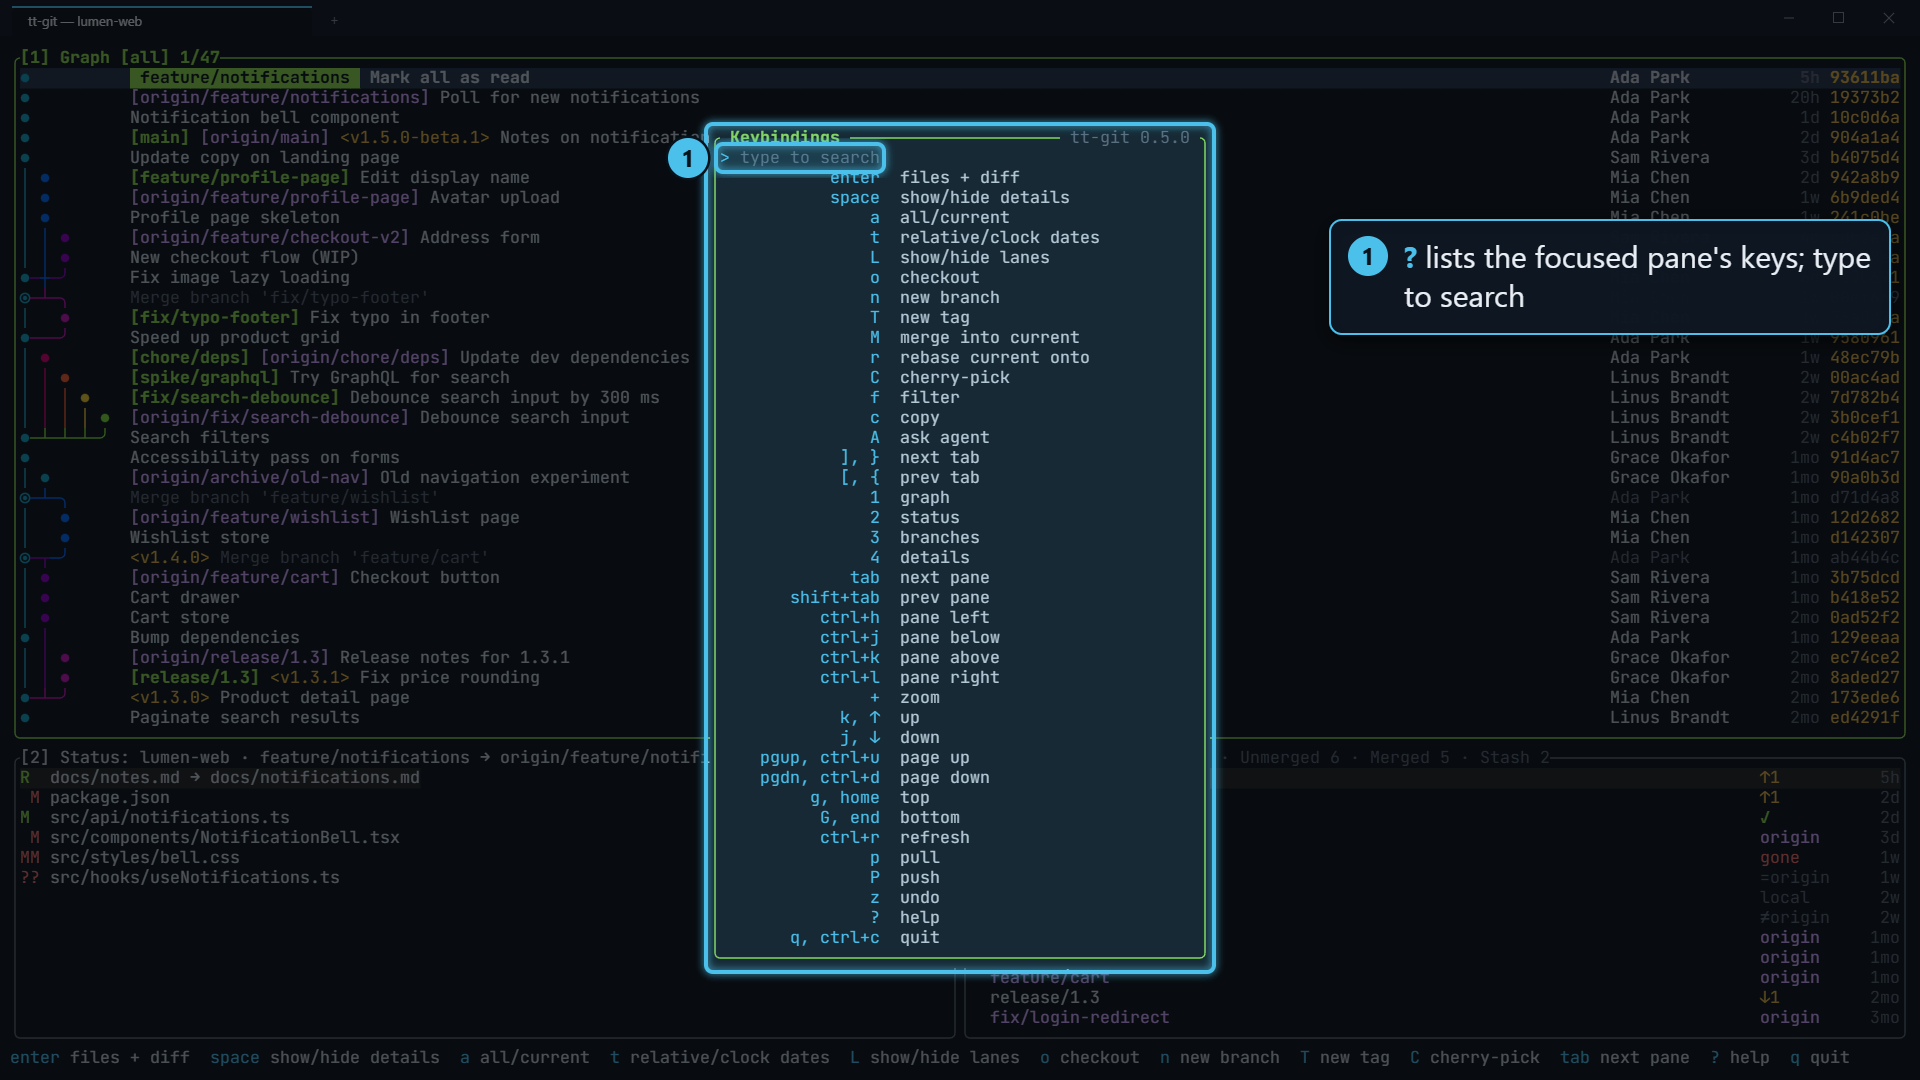
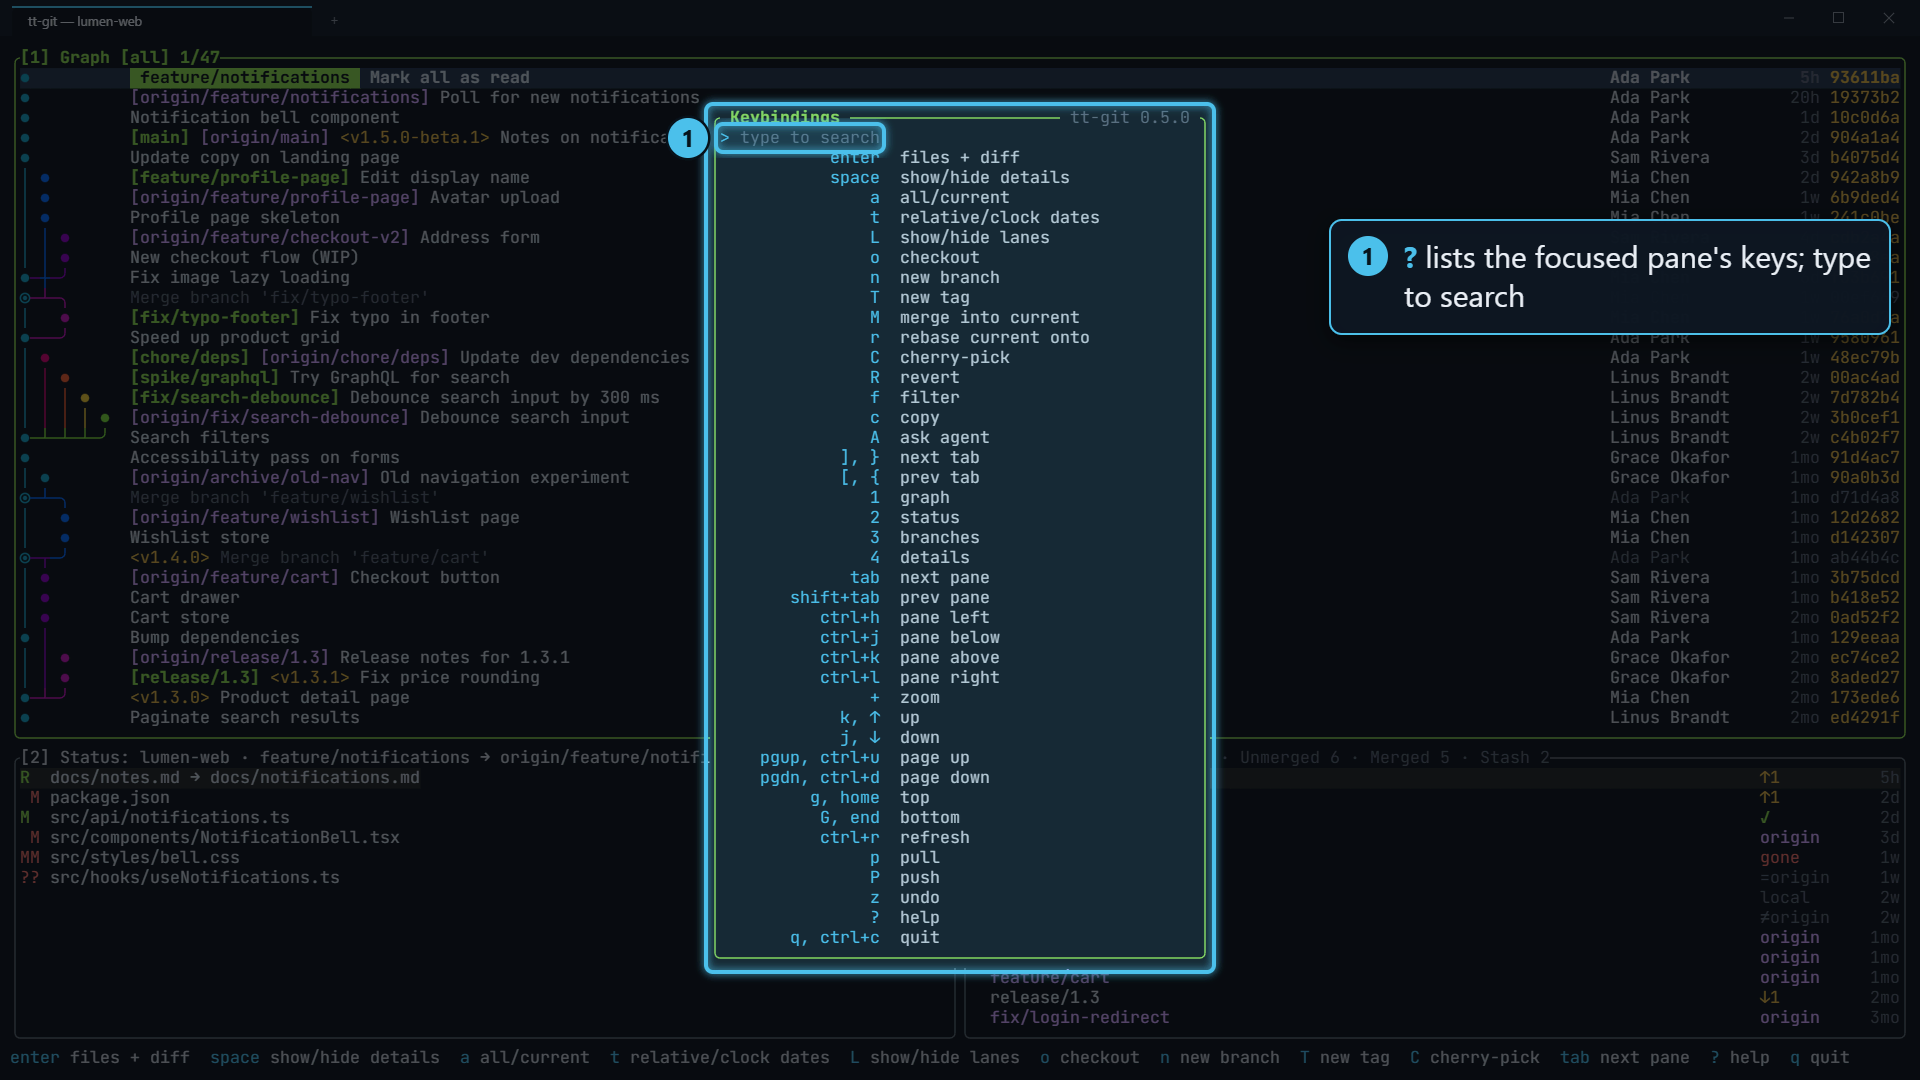
docs(graph): Describe reverting a commit with R

Changed region(s): [[0.3438, 0.0917, 0.6562, 0.3667]]

diff --git a/README.md b/README.md
@@ -115,7 +115,7 @@ command palette, which lists built-in commands and plugin actions.
 | | `o` | check out the selected commit: the local branch on it if there is one, else the commit with HEAD detached (with uncommitted changes, asks to stash them first) |
 | | `n` | new branch at the selected commit (`tab` in the dialog: create it in a worktree) |
 | | `T` | new tag at the selected commit (`tab` in the dialog: annotated, with a message) |
-| | `M` / `r` / `C` | merge into current / rebase current onto / cherry-pick |
+| | `M` / `r` / `C` / `R` | merge into current / rebase current onto / cherry-pick / revert |
 | | `c` | copy the commit hash |
 | | `A` | ask an AI agent about the commit, or start a ready-made action (explain branch, resolve conflicts…); opens in a herdr tab inside herdr, else in place of details |
 | | `]` `[` (or `}` `{`) | next / previous tab in the branches pane, without leaving the graph |
@@ -140,7 +140,7 @@ command palette, which lists built-in commands and plugin actions.
 | | `s` | stash: everything, only what's staged, only what isn't staged, everything but leave staged changes in place, or just the selected file (`tab` in the dialog picks; the message is optional) |
 | | `e` | open the file in your editor at its first change (a conflicted file: at its first conflict marker) |
 | | `b` | blame the file in the working tree: who last changed each line, when and in which commit |
-| | `C` / `X` | continue / abort a merge, rebase or cherry-pick |
+| | `C` / `X` | continue / abort a merge, rebase, cherry-pick or revert |
 | stash tab | `space` / `a` | pop / apply the selected stash (pop drops it once applied) |
 | | `d` | drop it (asks first) |
 | | `n` | new branch from it at the commit it was made on (`git stash branch`) |

diff --git a/docs/configuration.md b/docs/configuration.md
@@ -229,7 +229,7 @@ Write keys as `q`, `Q`, `shift+q`, `ctrl+c`, `alt+enter`, `shift+tab`,
 | `move_up`, `move_down`, `page_up`, `page_down`, `top`, `bottom` | `k`/`↑`, `j`/`↓`, `ctrl+u`, `ctrl+d`, `g`, `G` | global |
 | `refresh`, `push`, `pull` | `ctrl+r`, `P`, `p` | global |
 | `undo` | `z` | global |
-| `toggle_scope`, `toggle_dates`, `toggle_lanes`, `checkout`, `filter`, `new_branch`, `new_tag`, `merge`, `rebase`, `cherry_pick`, `agent` | `a`, `t`, `L`, `o`, `f`, `n`, `T`, `M`, `r`, `C`, `A` | graph |
+| `toggle_scope`, `toggle_dates`, `toggle_lanes`, `checkout`, `filter`, `new_branch`, `new_tag`, `merge`, `rebase`, `cherry_pick`, `revert`, `agent` | `a`, `t`, `L`, `o`, `f`, `n`, `T`, `M`, `r`, `C`, `R`, `A` | graph |
 | `checkout`, `new_branch`, `new_tag`, `delete_branch`, `rename_branch`, `fetch`, `filter`, `merge`, `rebase` | `enter`/`space`, `n`, `T`, `d`, `R`, `f`, `/`, `M`, `r` | branches |
 | `push_tag` | `P` (on the Tags tab; pushes the branch on the others) | branches |
 | `next_tab`, `prev_tab`, `pick_base` | `]` `}`, `[` `{`, `b` | branches |

diff --git a/docs/plugins.md b/docs/plugins.md
@@ -145,7 +145,7 @@ Event hooks are low-volume events, each run as a fresh process:
 | `commit.created` | `{oid, amend, summary}` |
 | `fetch.completed` / `pull.completed` / `push.completed` | `{}` / `{branch, head}` / `{branch}` |
 | `files.staged` / `files.unstaged` / `files.discarded` | `{paths}` (`"all"` for stage-all) / `{paths}` / `{path}`, plus `partial: true` when only some hunks or lines changed; discard all sends `{path: "all", scope}` with `scope` one of `everything`, `unstaged`, `unstaged_and_untracked`, `untracked` |
-| `merge.completed` / `rebase.completed` / `cherry_pick.completed` | `{target/onto/picked, head}` |
+| `merge.completed` / `rebase.completed` / `cherry_pick.completed` / `revert.completed` | `{target/onto/picked/reverted, head}` |
 | `stash.created` / `stash.applied` / `stash.dropped` | `{message}` / `{stash, pop}` / `{stash}` |
 | `worktree.removed` | `{path, branch, force}` (`branch` null if it was detached; `force` true if removed with its changes) |
 
